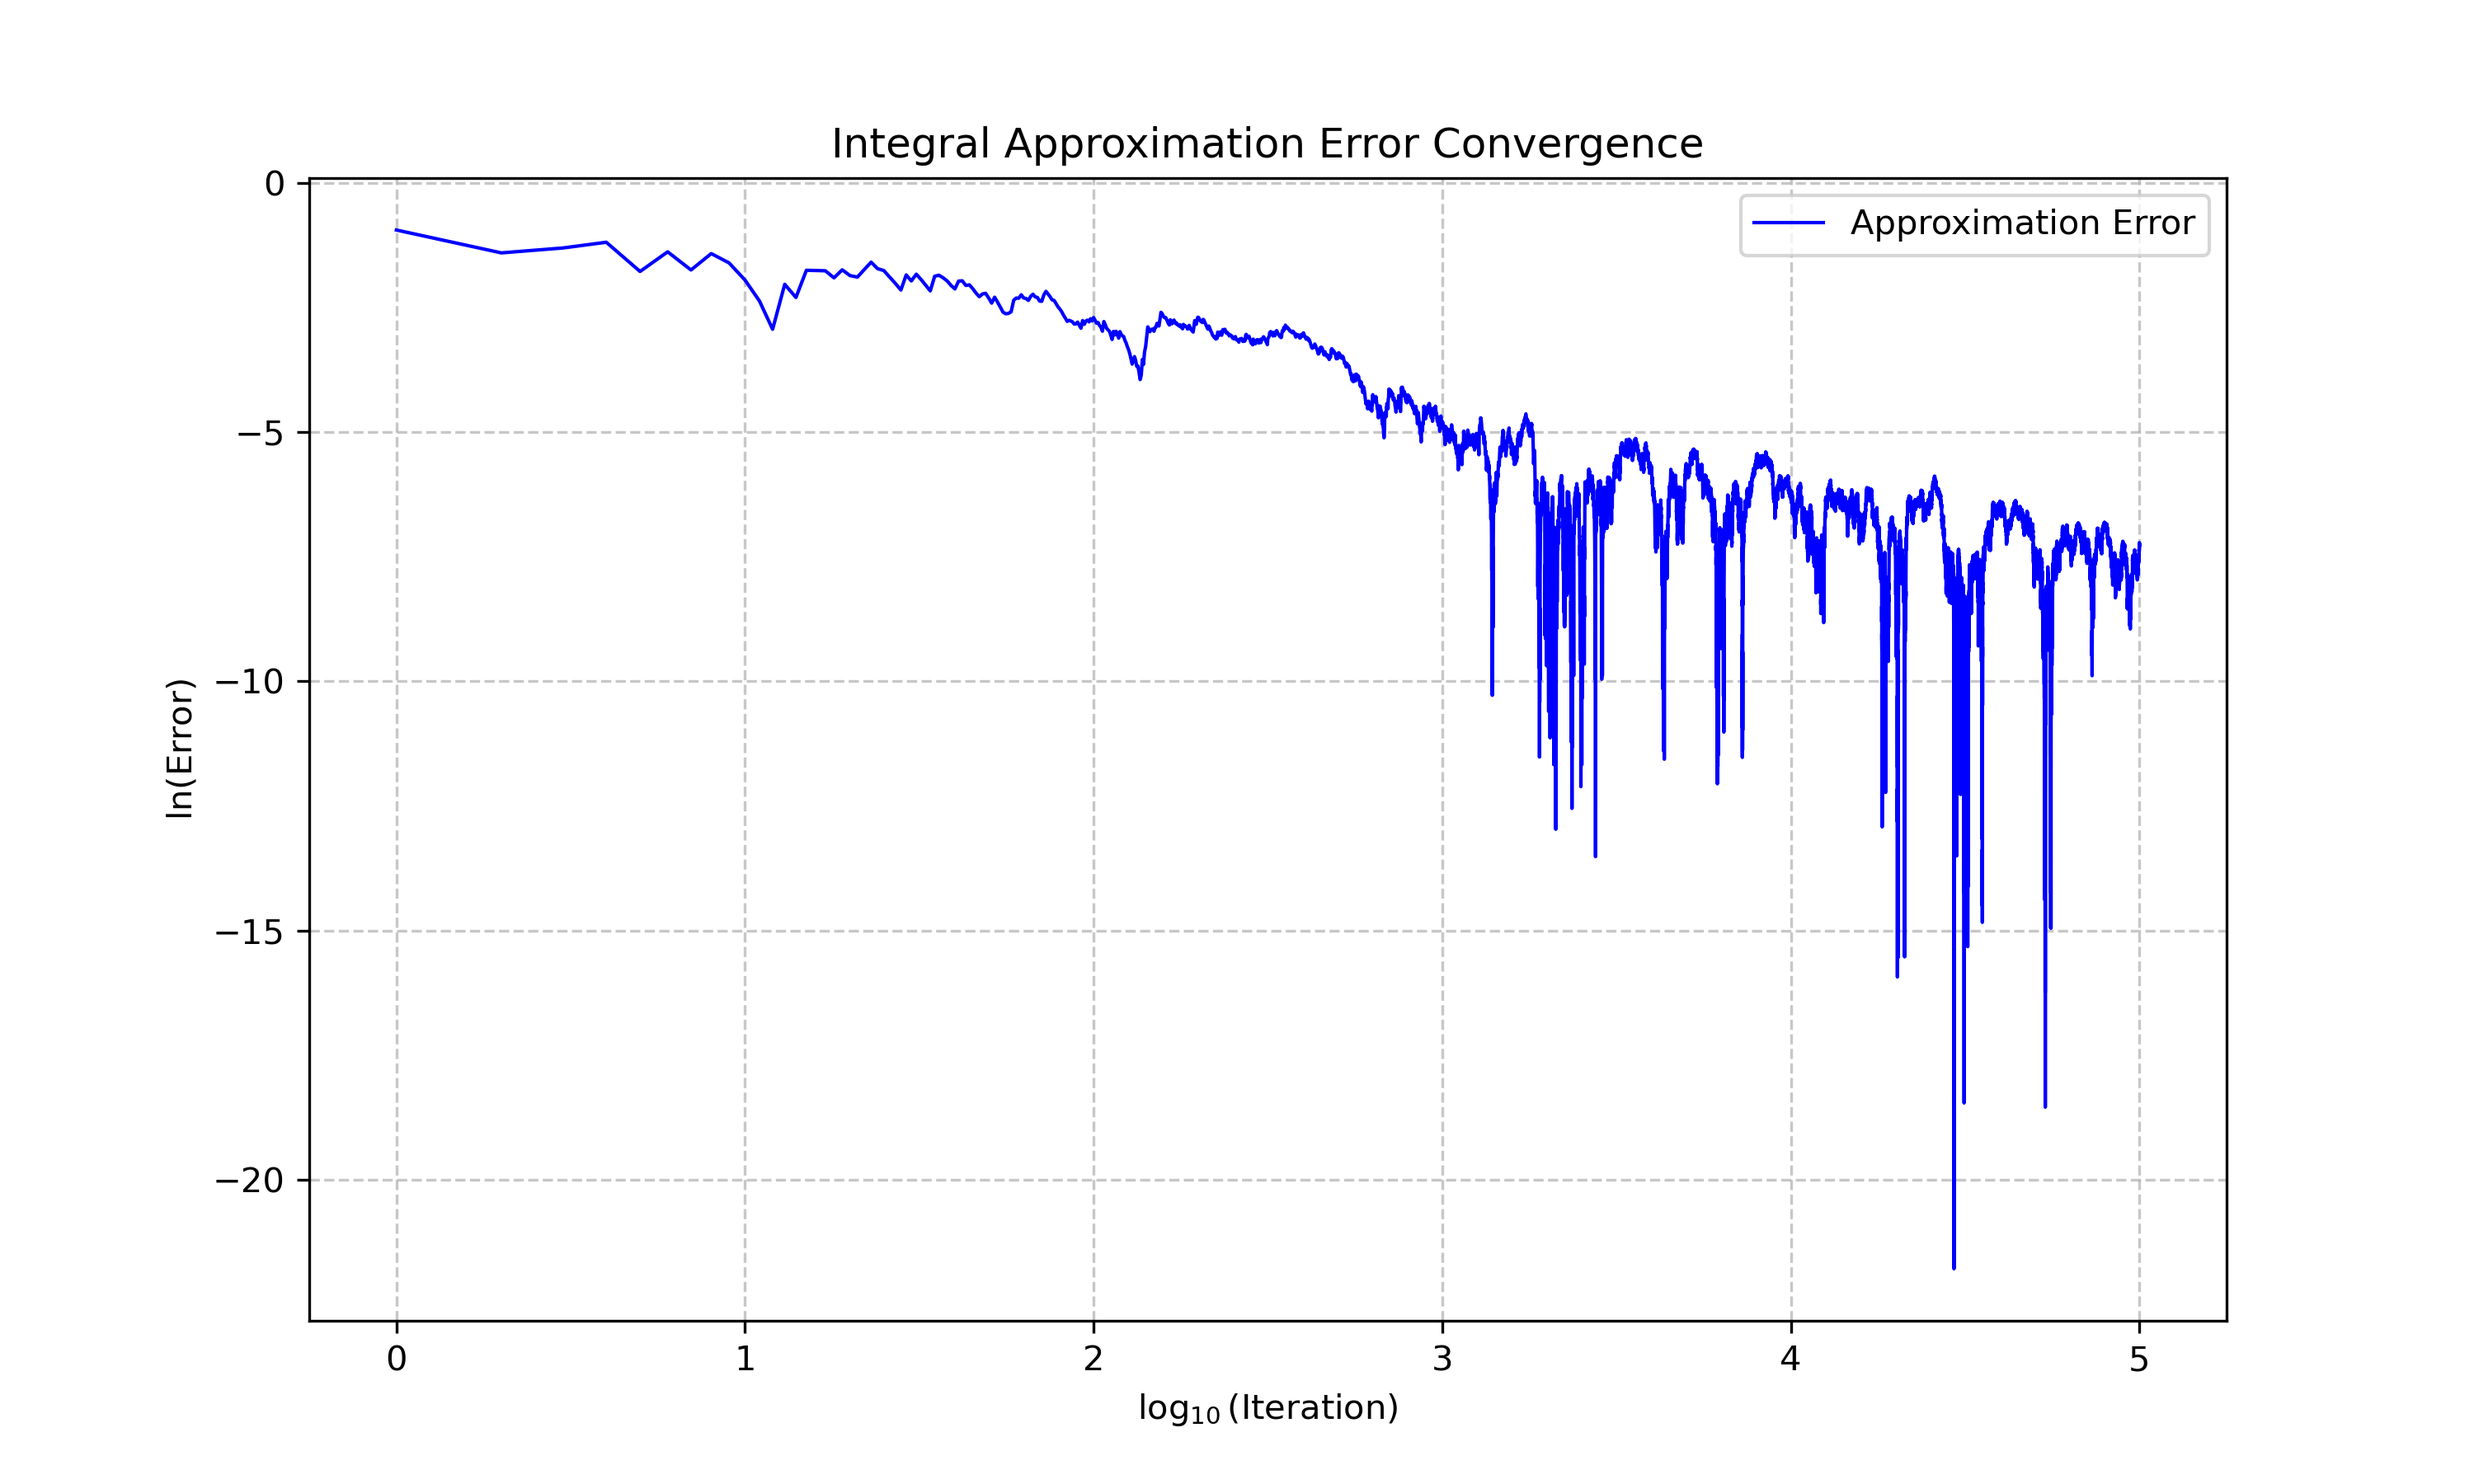
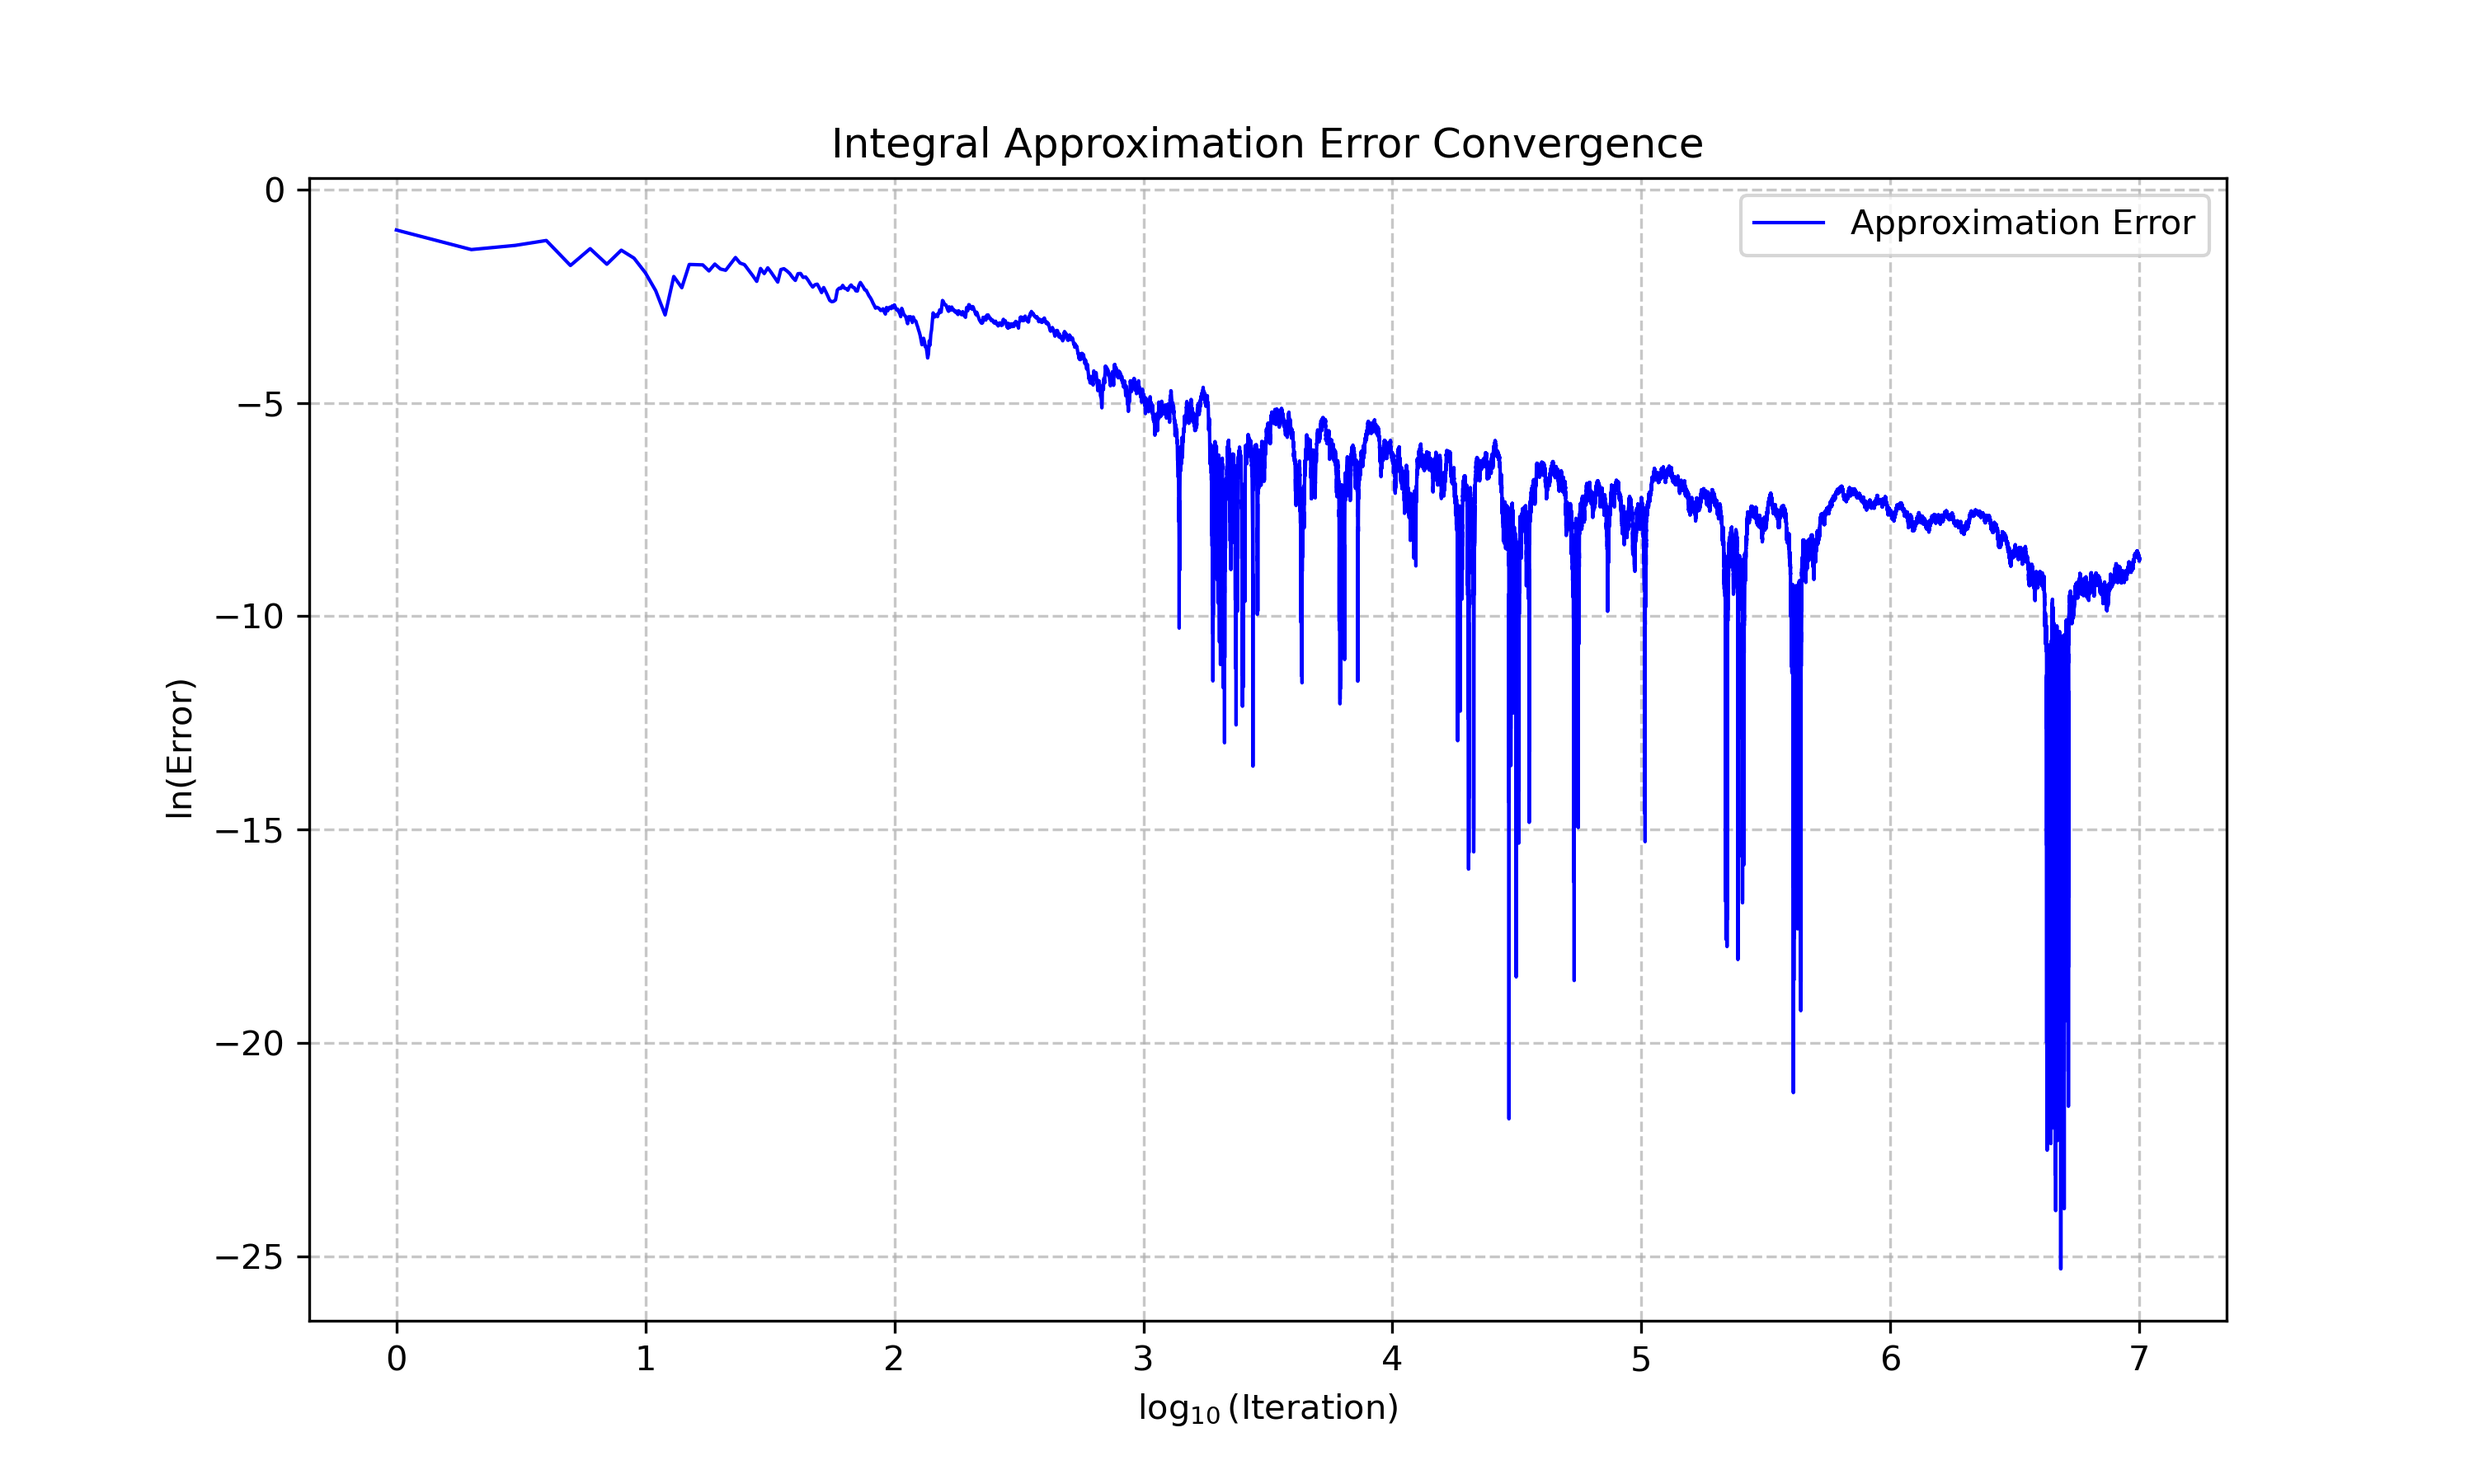
Updated code to improve range

diff --git a/04-ising-model/code/problem1/part_b/src/main.rs b/04-ising-model/code/problem1/part_b/src/main.rs
@@ -4,11 +4,11 @@ use rand::{Rng, SeedableRng}; // Import the SeedableRng trait // Import the Stan
 use std::fs::File;
 use std::io::{BufWriter, Write};
 
-const NUM_POINTS: usize = 100_000;
+const NUM_POINTS: usize = 10_000_000;
 
 fn main() {
     // Creating an array to store normally distributed x-values
-    let mut x_arr: [f64; NUM_POINTS] = [0.0; NUM_POINTS];
+    let mut x_arr = vec![0.0_f64; NUM_POINTS];
 
     const TRUE_PI: f64 = std::f64::consts::PI;
 
@@ -36,19 +36,13 @@ fn main() {
         x_arr[i + 1] = z1;
     }
 
-    let mut func_arr: [f64; NUM_POINTS] = [0.0; NUM_POINTS];
+    let mut func_arr = vec![0.0_f64; NUM_POINTS];
 
     // Calculating cos(x) for all x-values
     for i in 0..NUM_POINTS {
         func_arr[i] = x_arr[i].cos();
     }
 
-    // // Calculating the average of the array
-    // let integral = func_arr.iter().sum::<f64>() / func_arr.len() as f64;
-    // println!("I: {}", integral);
-
-    let mut integral_estimate_arr: [f64; NUM_POINTS] = [0.0; NUM_POINTS];
-    let mut integral_lnerror_arr: [f64; NUM_POINTS] = [0.0; NUM_POINTS];
     let mut running_total: f64 = 0.0;
 
     let integral_val = (-0.5_f64).exp();
@@ -62,20 +56,16 @@ fn main() {
     // Calculating an array of the running integral estimate
     for i in 0..NUM_POINTS {
         running_total += func_arr[i];
-        integral_estimate_arr[i] = running_total / (i + 1) as f64;
+        let integral_estimate: f64 = running_total / (i + 1) as f64;
 
-        integral_lnerror_arr[i] = (integral_estimate_arr[i] - integral_val).abs().ln();
-        // println!(
-        //     "I_{:>3}: {:.8}, {:.8}",
-        //     i, integral_estimate_arr[i], integral_lnerror_arr[i]
-        // );
+        let integral_lnerror = (integral_estimate - integral_val).abs().ln();
 
         writeln!(
             writer,
             "{},{},{}",
             i + 1,
-            integral_estimate_arr[i],
-            integral_lnerror_arr[i]
+            integral_estimate,
+            integral_lnerror
         )
         .expect("Error writing data to file");
     }
